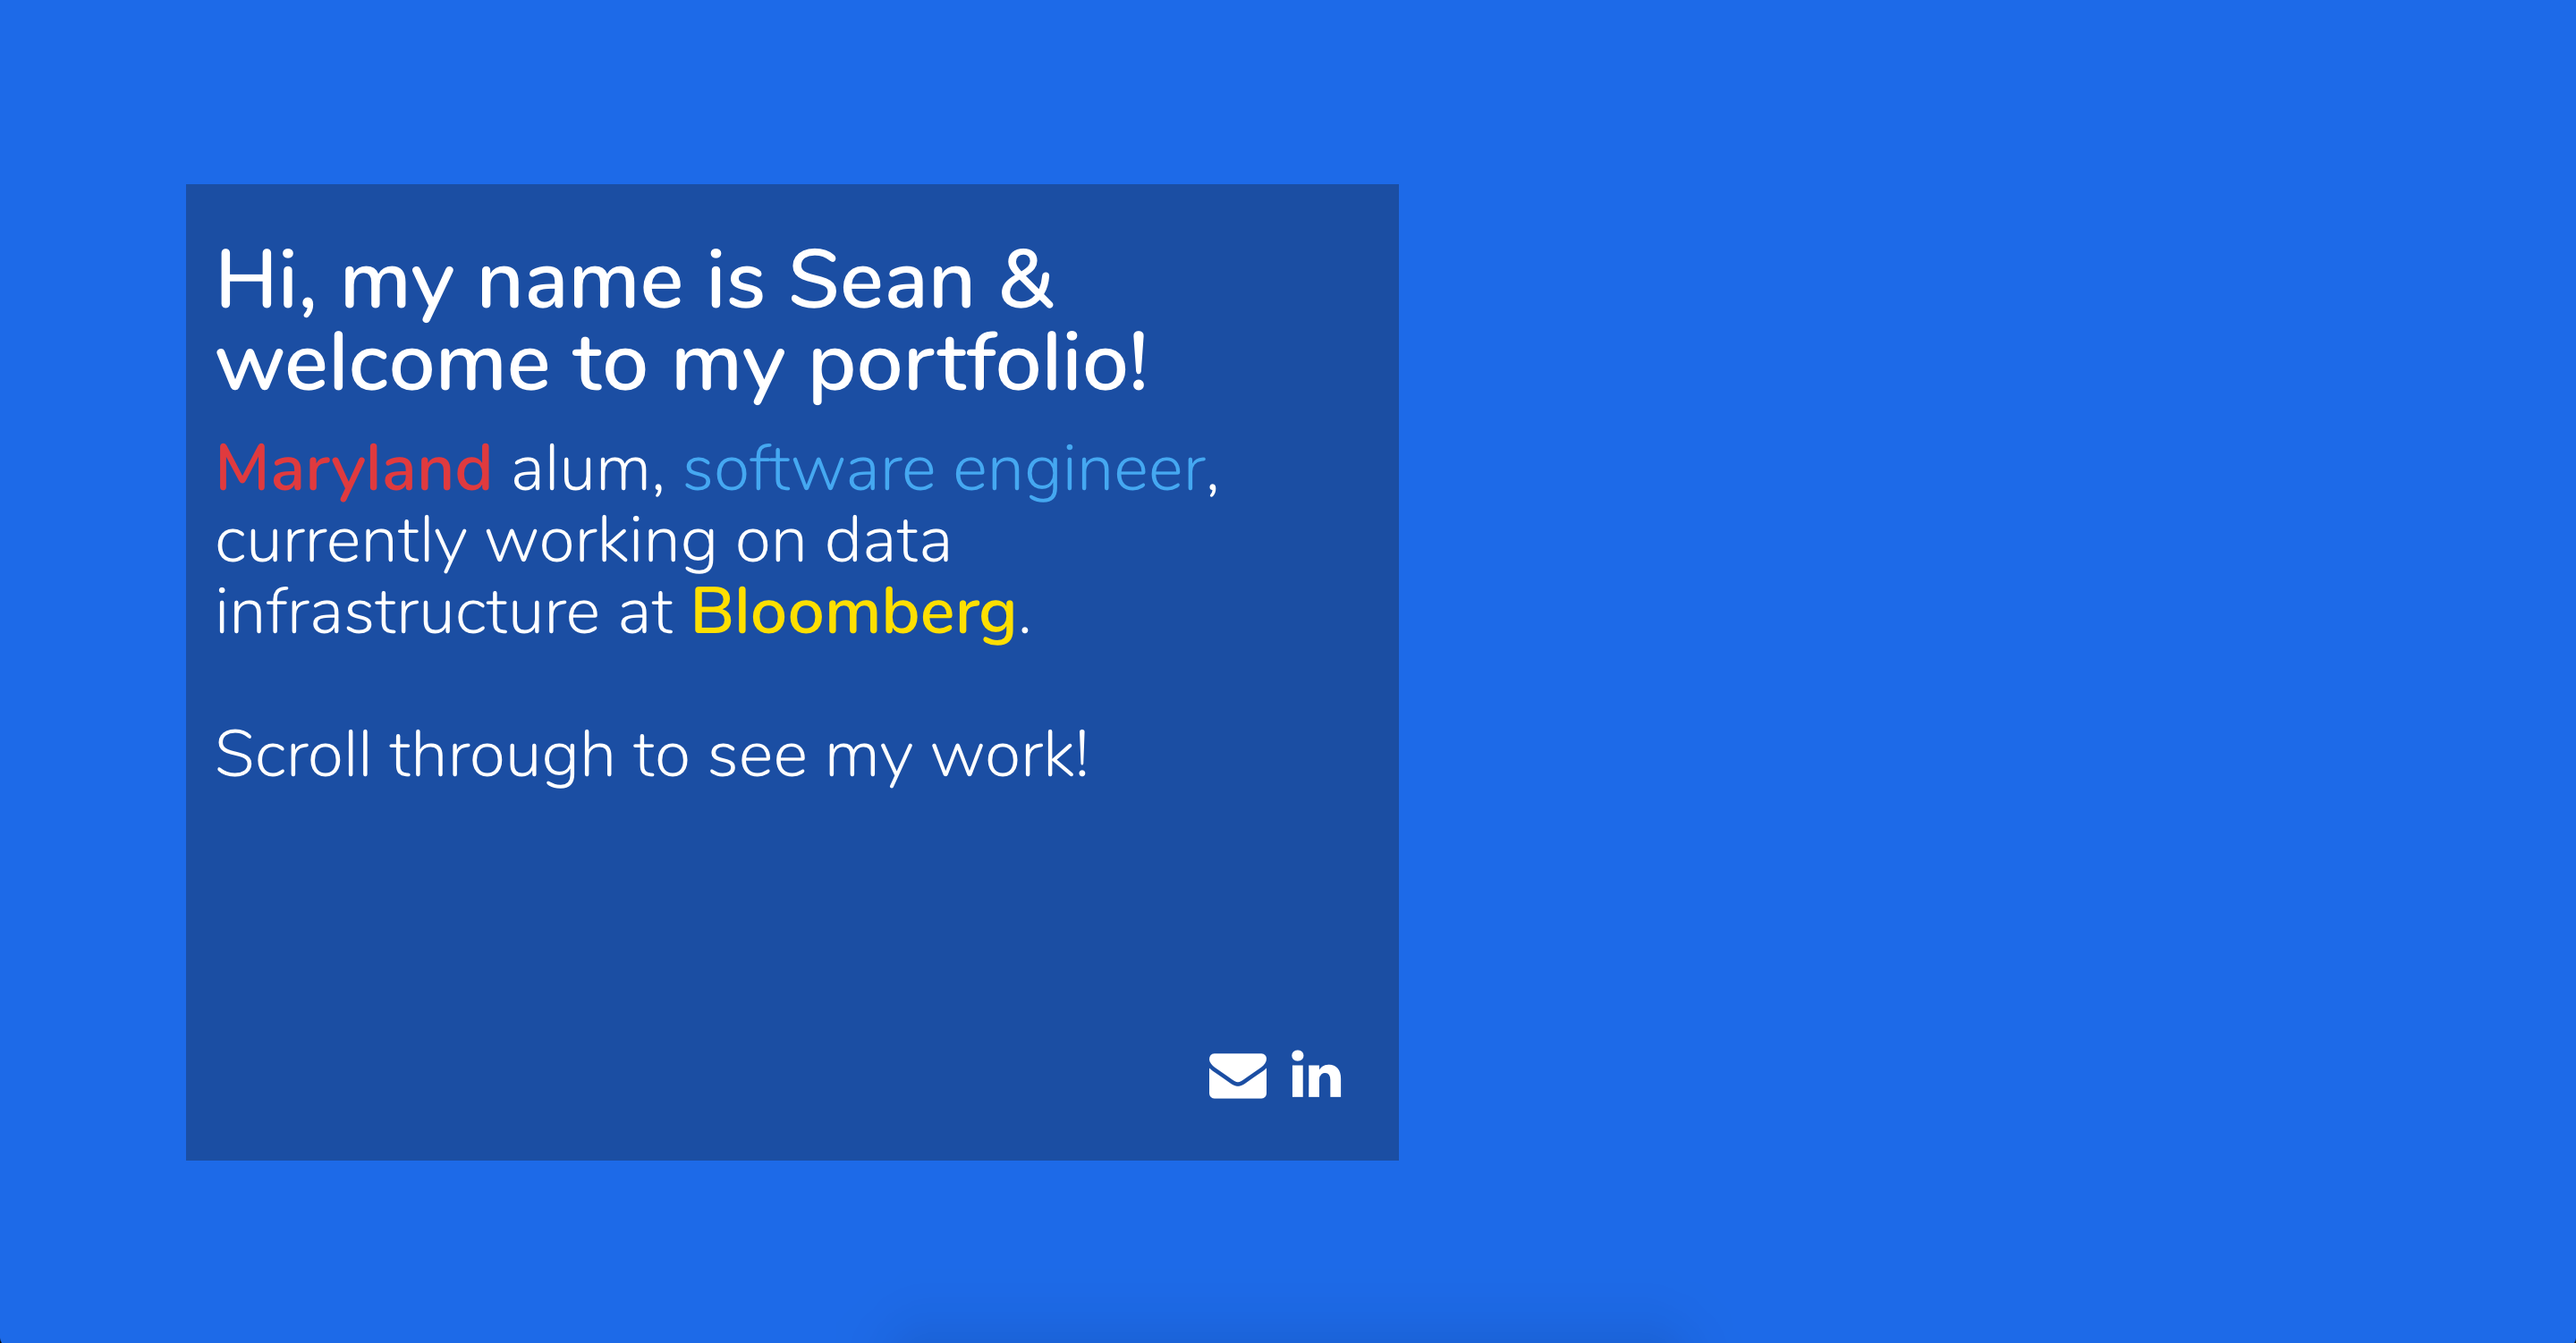
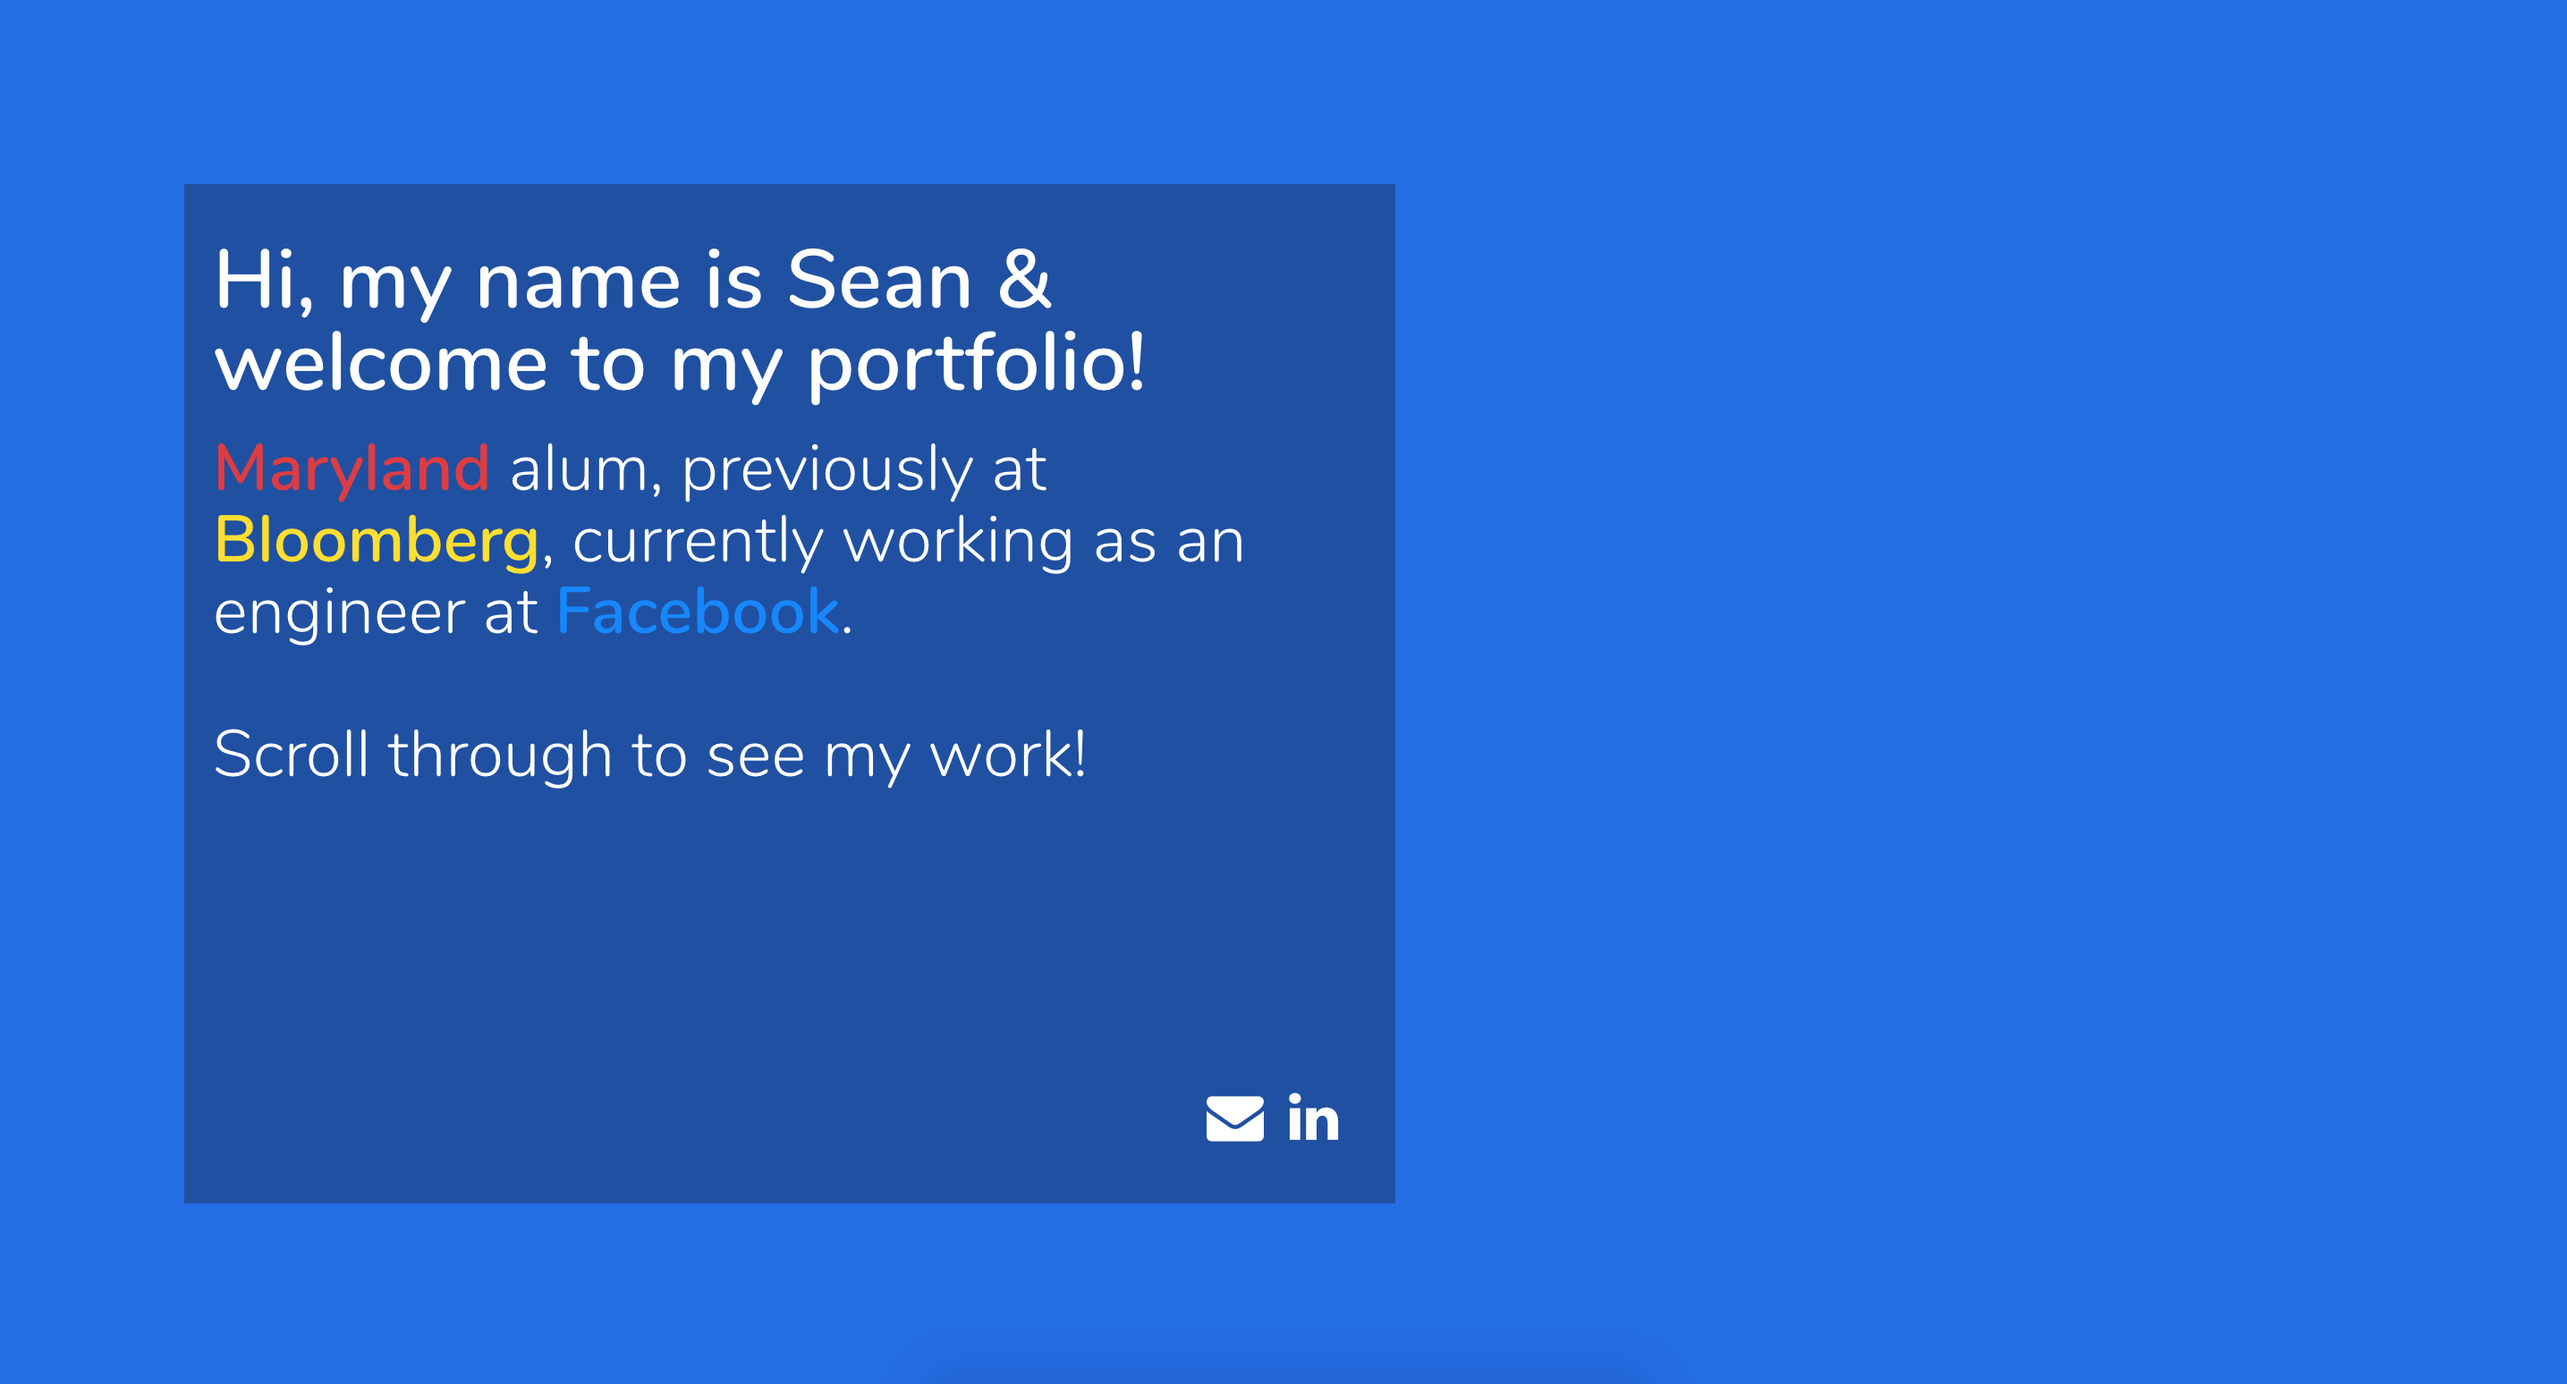
Update photo

diff --git a/index.html b/index.html
@@ -49,7 +49,7 @@
 						<div class="pater__text">
 							<h1>Hi, my name is Sean &amp; welcome to my portfolio!</h1>
 							<div class="pater__subheader pater__desc">
-								<h1><b style="color: rgb(224, 58, 62)">Maryland</b> alum, engineer at <b style="color: #0084FF">Facebook</b>, previously at <b style="color: #fedf00">Bloomberg</b>.</h1>
+								<h1><b style="color: rgb(224, 58, 62)">Maryland</b> alum, previously at <b style="color: #fedf00">Bloomberg</b>, currently working as an engineer at <b style="color: #0084FF">Facebook</b>.</h1>
 								<h1><br>Scroll through to see my work!</h1>
 							</div>
 							<div class="pater__contact">
